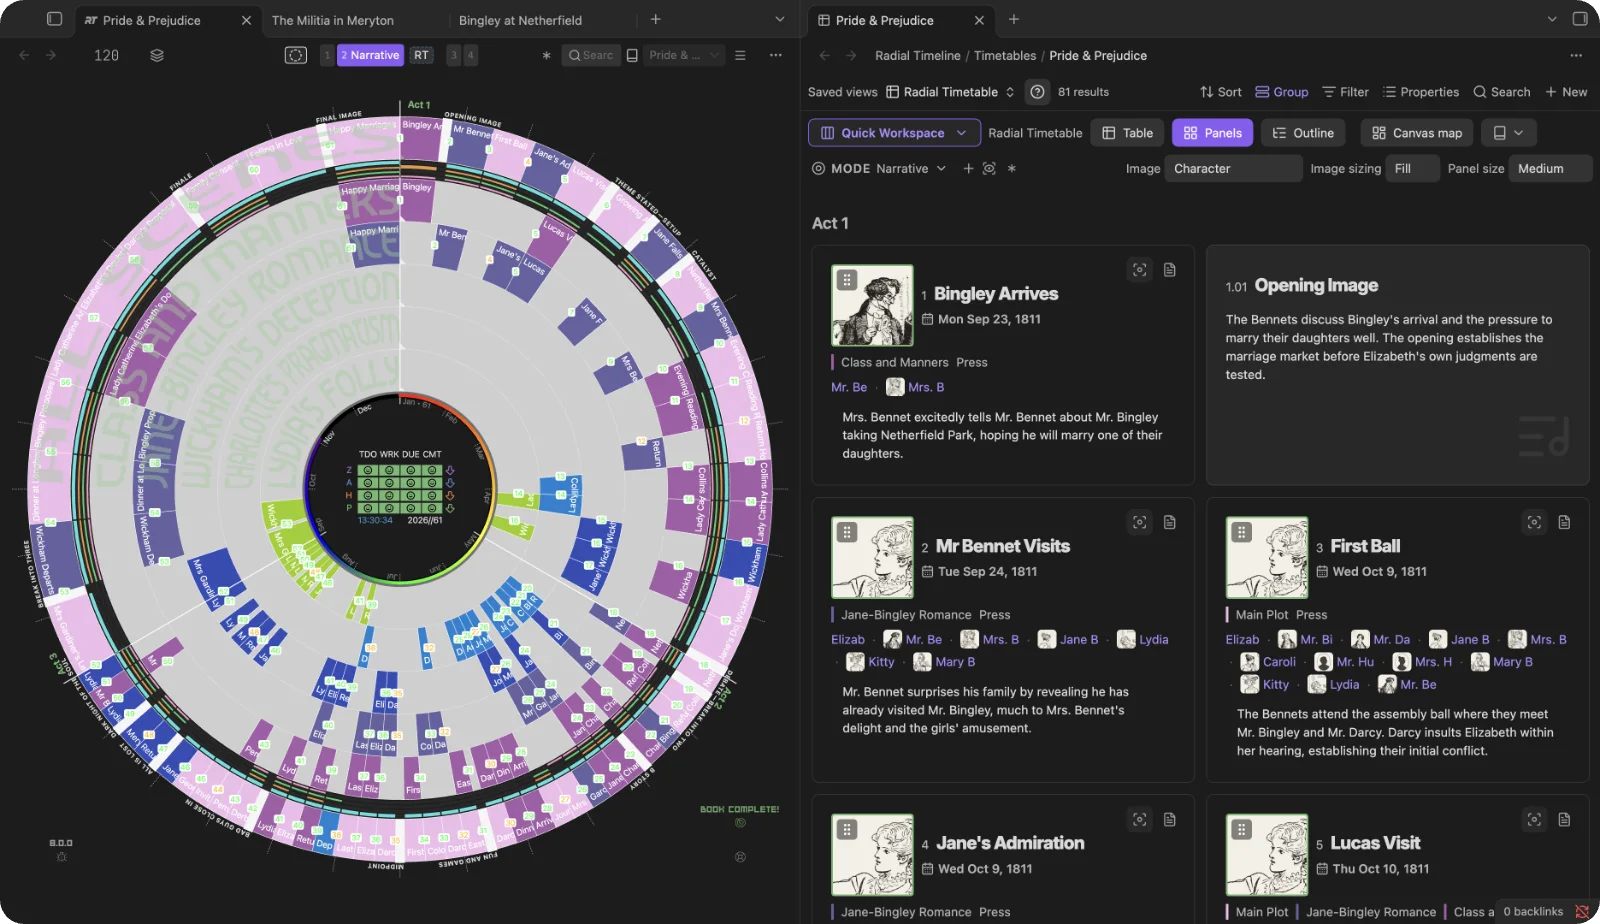
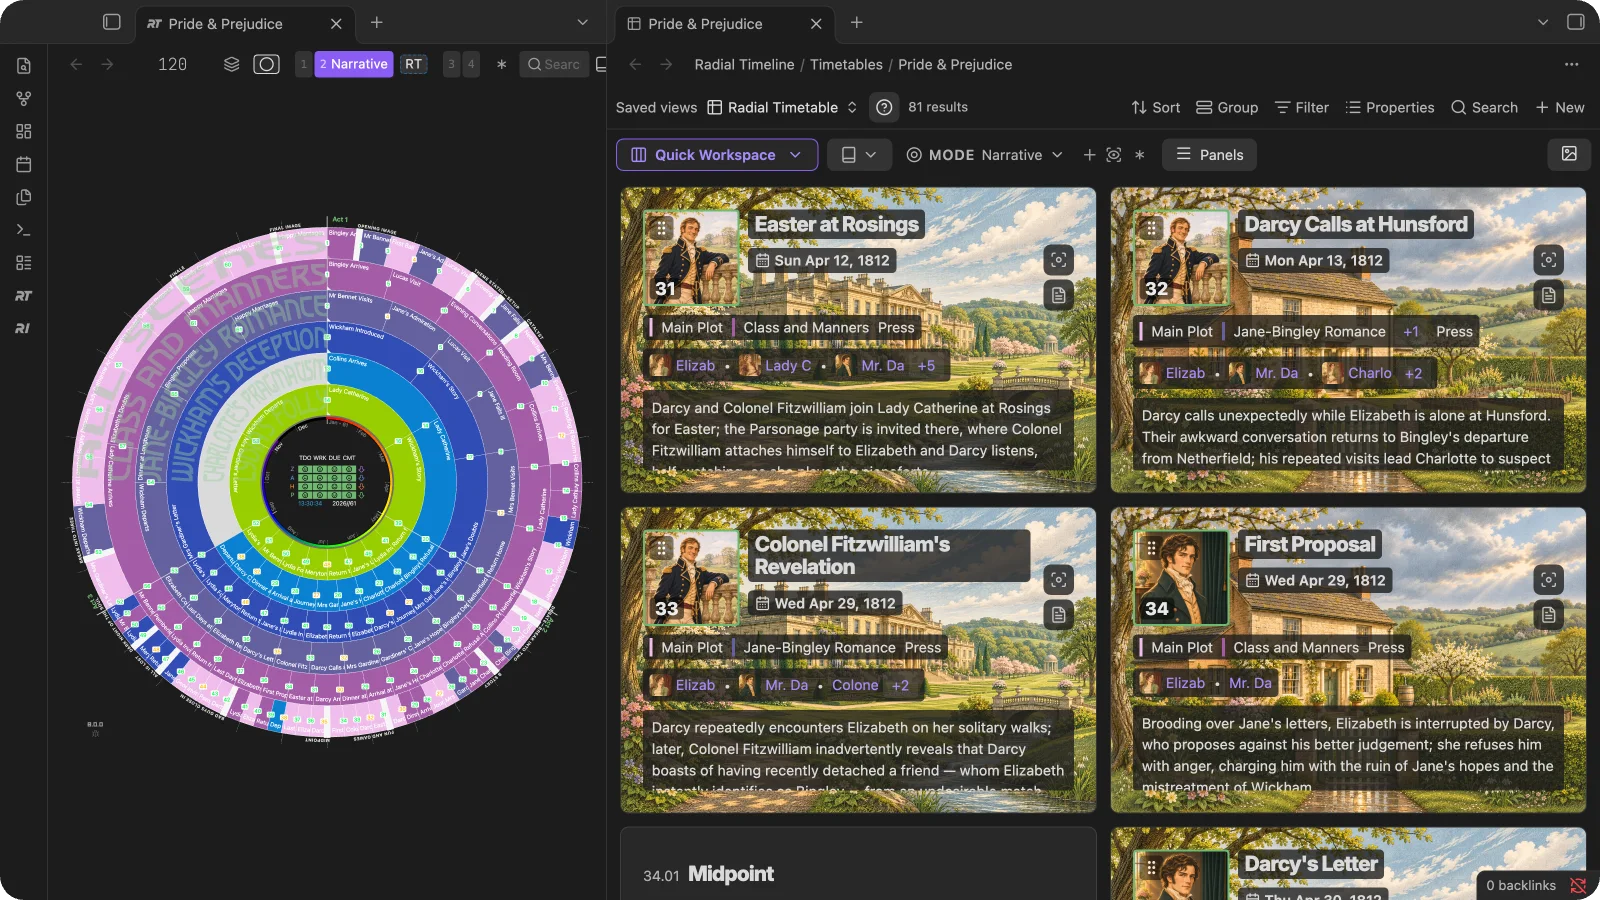
Retake the 8.0 Panels, Canvas map and time reference screenshots
Panels now show a character over the place with the image buttons in a column, and Canvas cards carry portraits and subplot colors, so both wiki images are retaken from the November 9 Pride & Prejudice Story Vault with the current build. Time references draw as arrowheads, a diamond and a source circle with a list beside the timeline, not squares: the Time References page describes the new marks over a new screenshot, and the old one goes. Settings → Advanced notes that ripple rename starts on and AI content logs start off in new vaults.

diff --git a/wiki/Time-References.md b/wiki/Time-References.md
@@ -40,13 +40,14 @@ References describe passages within their source scene. They do not create new s
 
 Time-reference marks appear **only in normal Chronologue**, on the outer **All Scenes** ring. They disappear in the Shift and Alt (planet calendar) sub-modes, and in other timeline modes. Question icons also hide in these Chronologue sub-modes. A source that belongs to several subplots still has only one set of reference marks.
 
-![A selected time reference connects its larger source square to a smaller date square on the outer ring](images/time-references-timeline.png)
+<p align="center"><img src="images/time-references-timeline.webp" alt="Pride and Prejudice in Chronologue: the source circle on Darcy's Letter, its lines to two November dates and to Earlier · 2 dates at the seam, and a list of the scene's four references beside the timeline" width="800"></p>
 
-- **Larger square:** the source scene containing the passage. Its caption identifies the scene when a reference is active.
-- **Smaller square:** a referenced date. Squares follow the angle of the ring. Hover or focus one to preview its source; click to pin the relationship and open the passage. The selected square grows, and other reference labels recede. Date squares remain fully opaque.
-- **Connector:** the active relationship follows an arc inside the ring. It does not mean that intervening scenes mention that date. Clicking empty timeline space clears the pinned relationship.
-- **Earlier / Later:** references outside the manuscript’s date range gather on either side of the 12 o’clock seam. The small activity-shaped break marks the discontinuity. Their distance from the seam does not measure elapsed years.
-- **Stack and +N:** up to three squares appear at a shared date. `+6` means six additional reference entries beyond the three shown; `+2` means two additional entries. Click the count to choose one of those passages. The count concerns references, not years or scenes.
+- **Source circle:** the scene that holds the references. Hover or focus it to see them all at once: every line from the scene draws, its date marks grow, other marks and source circles dim, its rows light in the Timetable, and a list beside the timeline names each reference in the order you wrote them. Click it to choose one from the same list.
+- **Date mark:** a hollow arrowhead on the referenced date, pointing along the ring the way the date lies from its scene: counter-clockwise for an earlier date, clockwise for a later one. A diamond marks references that point both ways, or a span around the scene’s own time. Hover or focus a mark to read its references beside the timeline: the label, kind and date, the source scene and the passage. Click it to open the passage; Radial Timeline scrolls the note to it and highlights it. Where several references share a mark, clicking it lists them to choose from.
+- **Line:** the route from the source circle to the date, drawn in the theme’s text color so it reads over every subplot color. It does not mean that intervening scenes mention that date.
+- **Earlier / Later:** references outside the manuscript’s date range gather on either side of the 12 o’clock seam under a double arrowhead, labeled with how many dates they hold (*Earlier · 2 dates*). The small activity-shaped break marks the discontinuity. Their distance from the seam does not measure elapsed years.
+- **Stack and +N:** up to three marks appear at a shared date. `+6` means six additional reference entries beyond the three shown. Click the count to choose one of those passages. The count concerns references, not years or scenes.
+- In Chronologue, the [timeline legend](Radial-Timeline-View#timeline-legend) shows the line and each kind of mark.
 
 Several scenes can refer to the same date. Each reference retains its own source: selecting the June 4 passage in **The photograph**, for example, connects that scene to June 4; selecting the corresponding passage in **The council vote** connects that source instead.
 

diff --git a/wiki/Timetable.md b/wiki/Timetable.md
@@ -125,7 +125,7 @@ Notes you open from the Timetable appear in a pane below the table, so the wheel
 
 **Panels** shows each scene, beat and sketch as a card, act by act: number, title, date, rings, characters and the synopsis, with an image beside them. Beats show their purpose; sketches show their text, and **Expand sketch** opens the rest.
 
-<p align="center"><img src="images/timetable-panels.webp" alt="Timetable Panels beside the wheel: Pride and Prejudice scene cards with a character portrait, date, rings, characters and synopsis, and the Image, Image sizing and Panel size controls above them" width="800"></p>
+<p align="center"><img src="images/timetable-panels.webp" alt="Timetable Panels beside the wheel: Pride and Prejudice scene cards, each with a character portrait over a picture of the place, the date, rings, characters and synopsis" width="800"></p>
 
 - **Image** chooses what each card shows: **Character** (a portrait of one of the scene’s characters, chosen by **Character selection**), **Place**, **Place + character** (the place and the character side by side, or whichever one the scene has), **Place background + character** (the character’s portrait over the place, with the card’s text on a backing you set with **Text backing**: **Subtle**, **Balanced** or **Strong**), or **None**. A character’s or place’s picture comes from its note’s `Image`, or else a picture named after it; see [Images for Timetable Panels](YAML-Frontmatter#images-for-timetable-panels).
 - **Character selection** decides whose portrait a card shows, among the scene’s characters who have one: **Most distinctive** (the default, the character who appears in the fewest scenes of the book, so each card tells you something), **First listed**, **Second character**, **POV character**, or **Balanced variety** (like Most distinctive, but avoids showing the same face on two cards in a row).

diff --git a/wiki/Settings-Advanced.md b/wiki/Settings-Advanced.md
@@ -18,10 +18,10 @@ Timeline display options, frontmatter key remapping, ripple rename, and log loca
 ### Schema & Manuscript
 
 *   **Remap frontmatter field keys**: Map custom frontmatter keys to Radial Timeline scene core fields.
-*   **Manuscript ripple rename**: Normalizes scene and active-beat filename prefixes after drag reorder. Scenes stay integer-numbered; beats use decimal minors.
+*   **Manuscript ripple rename**: Normalizes scene and active-beat filename prefixes after drag reorder. Scenes stay integer-numbered; beats use decimal minors. On in new vaults.
 
 ### Logs
 
 *   **Logs**: Readout of the main Radial Timeline logs location.
 *   **Export folder**: Destination for manuscript, outline, and cue-card exports. Editable — type or pick any folder inside your vault; the chip beside the field reveals it in the file explorer.
-*   **Enable AI content logs**: Saves full prompts, submitted material, and API responses in your vault for reviewing AI runs, including failed runs. Credentials are redacted. Your vault's sync and backup settings apply to these files.
+*   **Enable AI content logs**: Saves full prompts, submitted material, and API responses in your vault for reviewing AI runs, including failed runs. Credentials are redacted. Your vault's sync and backup settings apply to these files. Off in new vaults.
